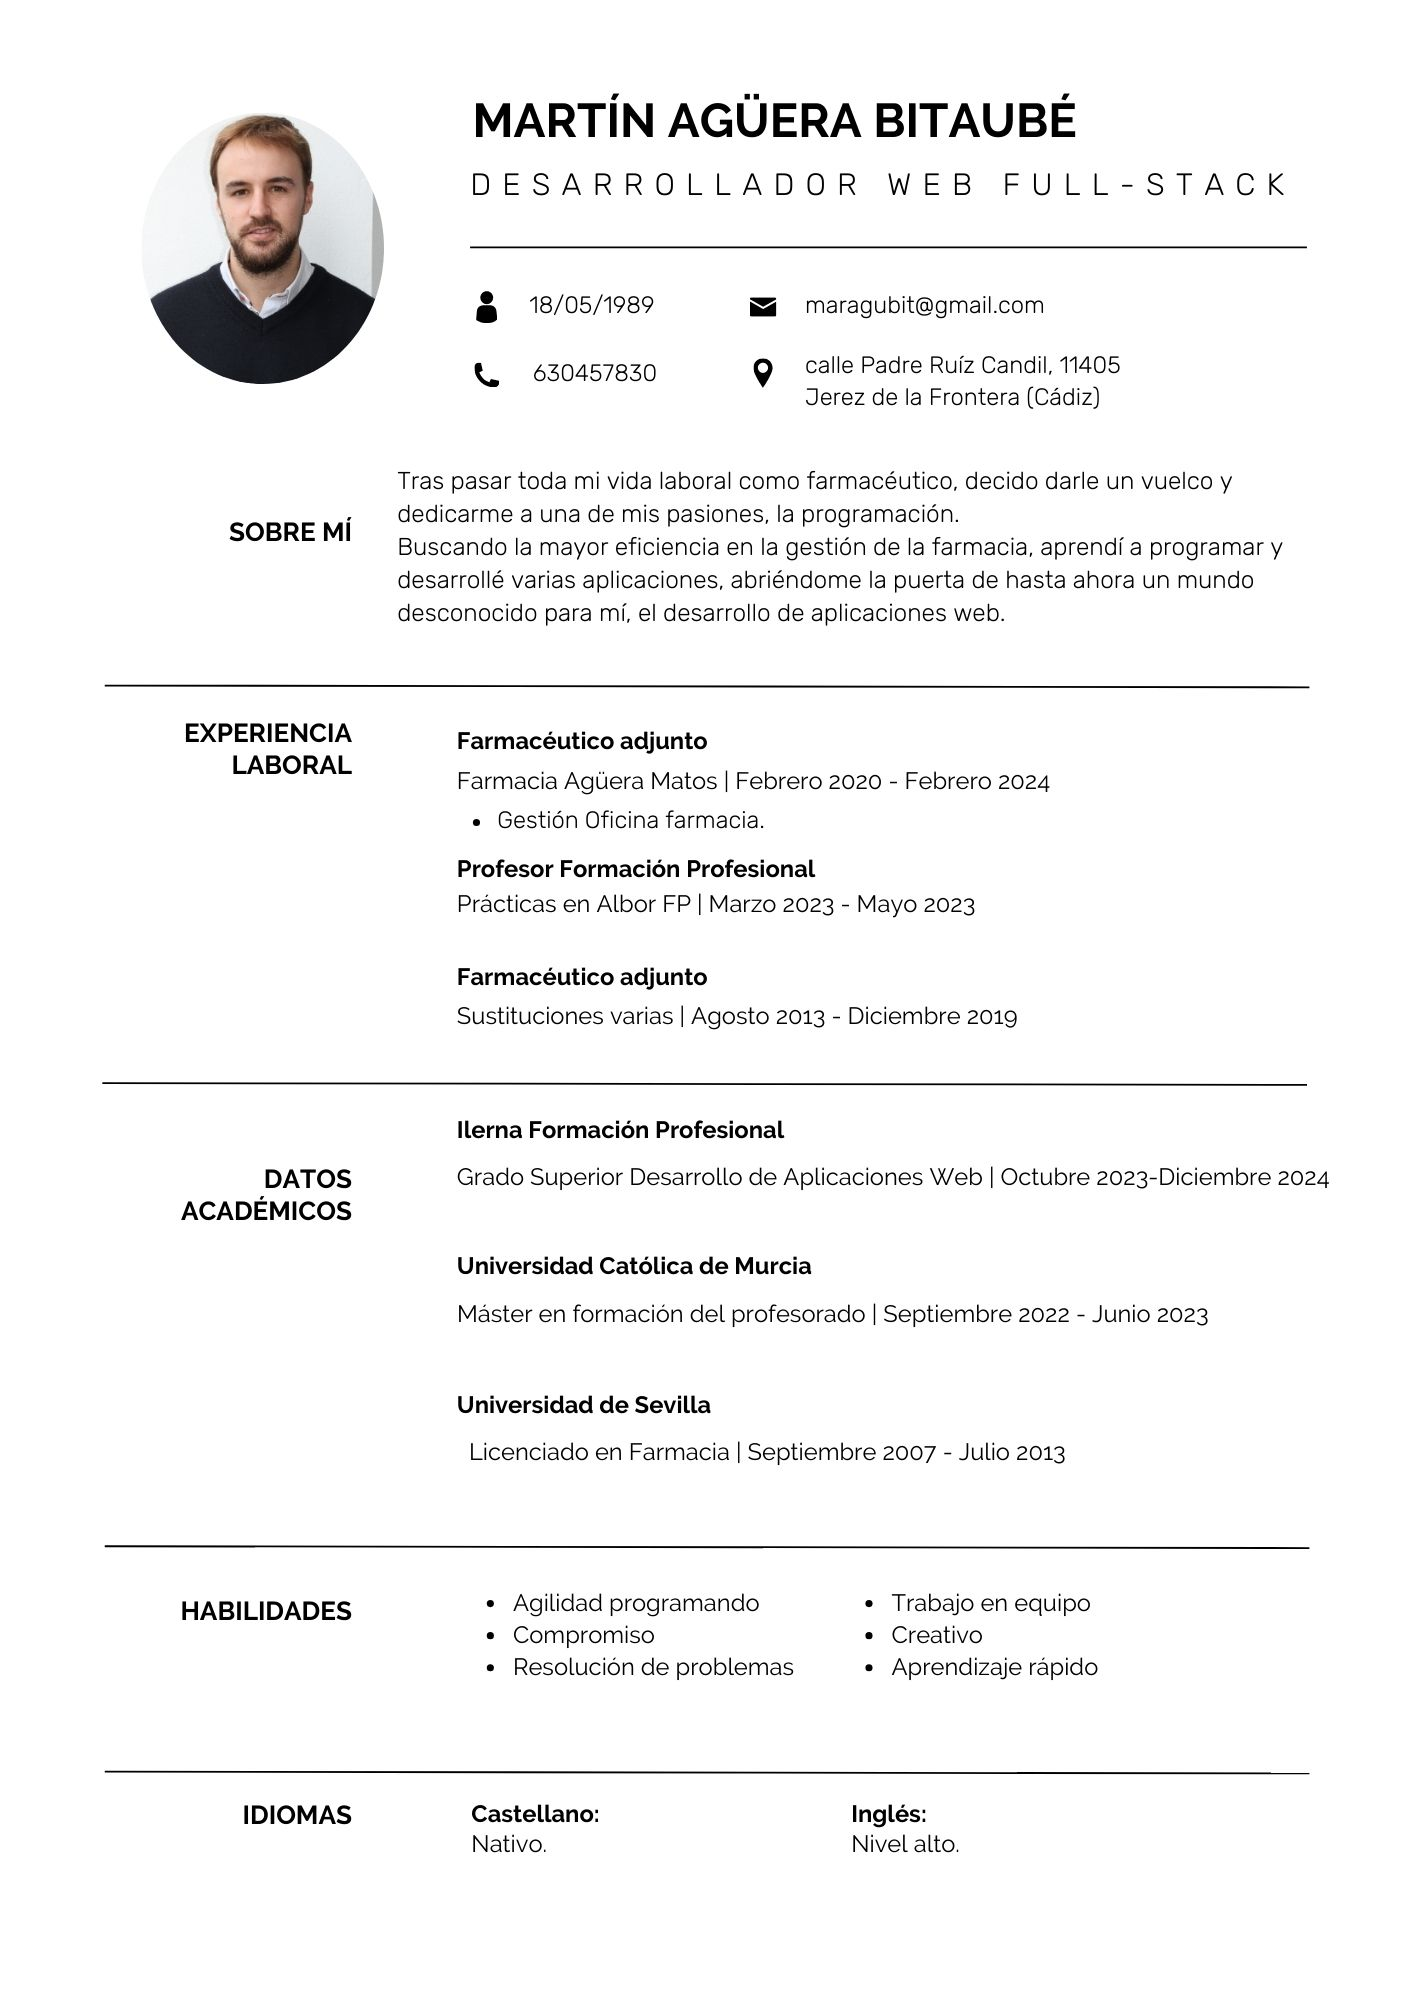
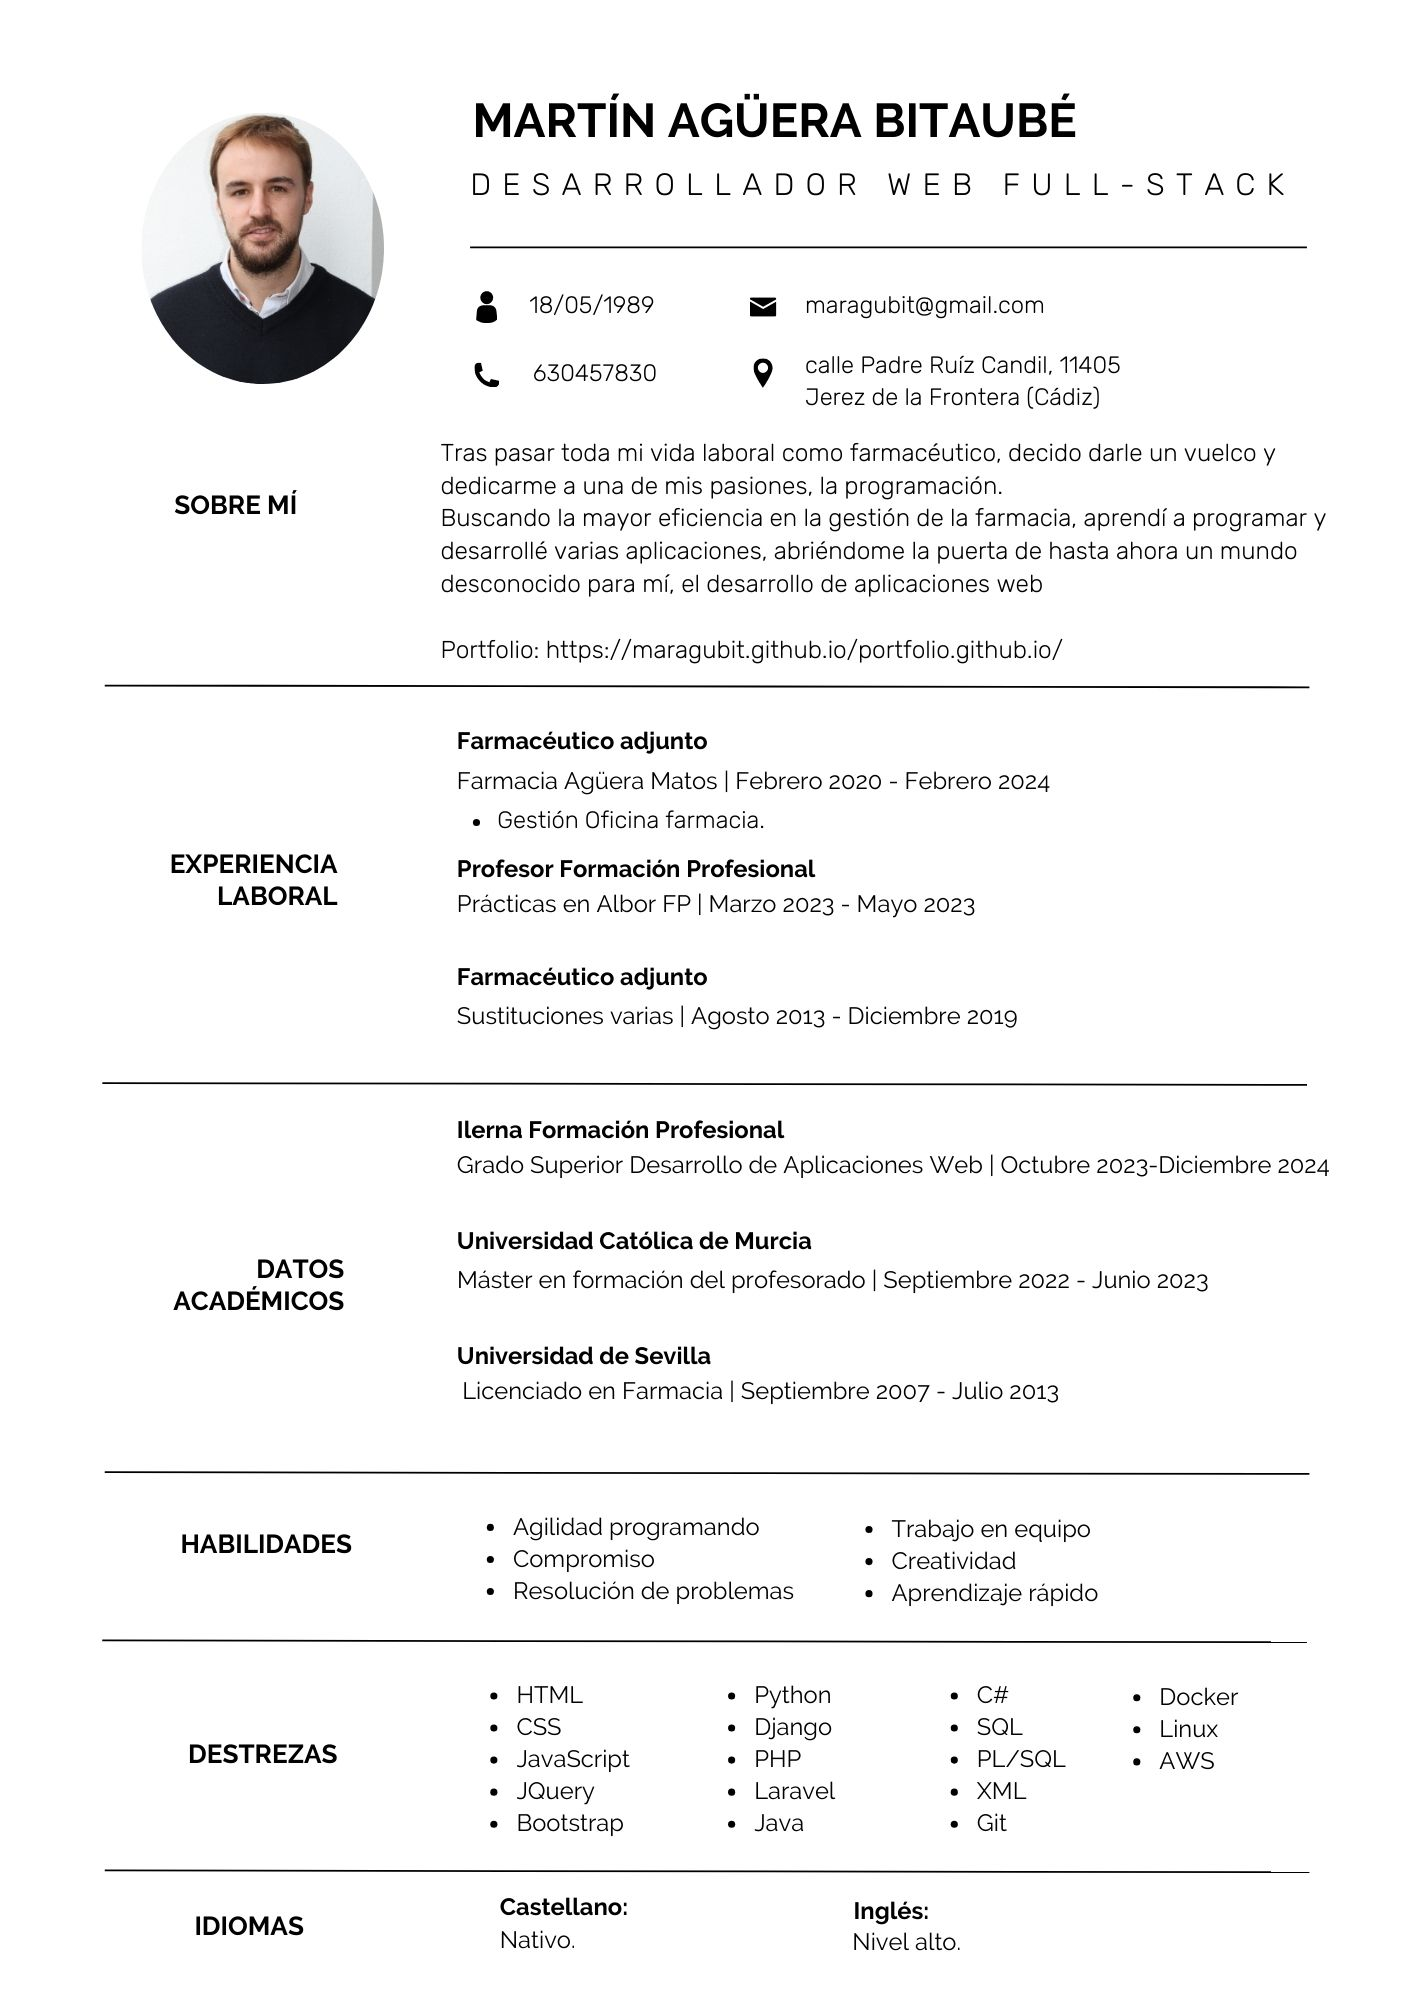
actualizacion cv

diff --git a/skillsIframe.html b/skillsIframe.html
@@ -14,10 +14,10 @@
         <tr> <th><i class='fa fa-eye' style='font-size:14px'></i> Front-End</th> <th><i class='fa fa-eye-slash' style='font-size:14px'></i> Back-End</th>  <th> <i class='fa fa-database' style='font-size:14px'></i> Data-Base</th> <th> <i class='fa fa-server style='font-size:14px'></i>Others</th> </tr>
         <tr> <td>HTML</td> <td>Python</td> <td>SQL</td> <td>Git</td>  </tr>
         <tr> <td>CSS</td> <td>Django</td> <td>PL/SQL</td> <td>AWS</td>  </tr>
-        <tr> <td>JavaScript</td> <td>Php</td> <td>ORM</td> <td>Photoshop</td>  </tr>
-        <tr> <td>Jquery</td> <td>Java</td> <td></td> <td>XML</td>  </tr>
-        <tr> <td>Bootstrap</td> <td>C#</td> <td></td> <td></td>  </tr>
-        <tr> <td></td> <td></td> <td></td> <td></td>  </tr>
+        <tr> <td>JavaScript</td> <td>PHP</td> <td>ORM</td> <td>Photoshop</td>  </tr>
+        <tr> <td>Jquery</td> <td>Laravel</td> <td>SQLite</td> <td>XML</td>  </tr>
+        <tr> <td>Bootstrap</td> <td>C#</td> <td></td> <td>Linux</td>  </tr>
+        <tr> <td></td> <td>Java</td> <td></td> <td>Docker</td>  </tr>
         
     </table>
 </div>

diff --git a/myProjects.html b/myProjects.html
@@ -11,6 +11,7 @@
     <div class="misProyectos">
         <h2>Mis proyectos <i class='fa fa-rocket' style='font-size:24px'></i></h2>
         <ul>
+        <li>Aplicación web para controlar los gastos diarios: Laravel + PHP + JS + SQL + HTML + CSS <a href="http://ec2-51-20-127-127.eu-north-1.compute.amazonaws.com" target="_blank">LINK DEMO</a><hr></li>
         <li>Aplicación web gestión de muestras de laboratorio: Django + Python + JS + SQL + HTML + CSS <a href="https://laboratorioaguera.pythonanywhere.com" target="_blank">LINK DEMO</a><hr></li>
         <li>Aplicación web clínica dental: Django + Python + JS + SQL + HTML + CSS + Photoshop <a href="https://mymdental.pythonanywhere.com/" target="_blank">LINK DEMO</a><hr></li>
         <li>Aplicación web sobre plantas medicinales: Django + Python + JS + SQL + HTML + CSS + Photoshop + JSON <a href="https://maragubit.pythonanywhere.com/" target="_blank">LINK DEMO</a><hr></li>
